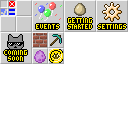
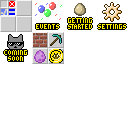
More convenience and polish

Changed region(s): [[0.25, 0.0, 1.0, 0.25], [0.0, 0.25, 0.25, 0.5]]

diff --git a/src/main/java/com/winthier/minimap/TerrainRenderer.java b/src/main/java/com/winthier/minimap/TerrainRenderer.java
@@ -272,6 +272,12 @@ public final class TerrainRenderer extends MapRenderer {
     }
 
     void syncUpdateMenu(Player player, Session session) {
+        if (player.getInventory().getItemInMainHand().getType() != Material.MAP ||
+            player.getInventory().getItemInMainHand().getDurability() != plugin.getMapId()) {
+            session.setMode(Session.Mode.MAP);
+            session.remove(Storage.class); // Force update
+            return;
+        }
         if (!player.isOnline()) return;
         MapCursorCollection mapCursors = new MapCursorCollection();
         // Draw
@@ -357,12 +363,15 @@ public final class TerrainRenderer extends MapRenderer {
                 session.setMenuLocation("main");
                 drawDarkenedMap(session, mapCache);
                 java.util.Random rnd = new java.util.Random(System.currentTimeMillis());
-                TileSet.getInstance().paste(TileSet.Tile.BUTTON_EVENTS, mapCache, 8, 8);
-                session.getMenuRects().add(new Session.Rect(8, 8, 32, 32, "events"));
-                TileSet.getInstance().paste(TileSet.Tile.BUTTON_GETTING_STARTED, mapCache, 48, 8);
-                session.getMenuRects().add(new Session.Rect(48, 8, 32, 32, "getting_started"));
-                TileSet.getInstance().paste(TileSet.Tile.BUTTON_SETTINGS, mapCache, 88, 8);
-                session.getMenuRects().add(new Session.Rect(88, 8, 32, 32, "settings"));
+                int ti = 0;
+                TileSet.getInstance().paste(TileSet.Tile.BUTTON_GETTING_STARTED, mapCache, 8 + (ti % 3) * 40, 8 + (ti / 3) * 40);
+                session.getMenuRects().add(new Session.Rect(8 + (ti % 3) * 40, 8 + (ti / 3) * 40, 32, 32, "getting_started"));
+                ti += 1;
+                TileSet.getInstance().paste(TileSet.Tile.BUTTON_EVENTS, mapCache, 8 + (ti % 3) * 40, 8 + (ti / 3) * 40);
+                session.getMenuRects().add(new Session.Rect(8 + (ti % 3) * 40, 8 + (ti / 3) * 40, 32, 32, "events"));
+                ti += 1;
+                TileSet.getInstance().paste(TileSet.Tile.BUTTON_SETTINGS, mapCache, 8 + (ti % 3) * 40, 8 + (ti / 3) * 40);
+                session.getMenuRects().add(new Session.Rect(8 + (ti % 3) * 40, 8 + (ti / 3) * 40, 32, 32, "settings"));
                 TileSet.getInstance().paste(TileSet.Tile.BUTTON_COMING_SOON, mapCache, 8, 48);
                 TileSet.getInstance().paste(TileSet.Tile.BUTTON_COMING_SOON, mapCache, 48, 48);
                 TileSet.getInstance().paste(TileSet.Tile.BUTTON_COMING_SOON, mapCache, 88, 48);

diff --git a/src/main/java/com/winthier/minimap/MiniMapPlugin.java b/src/main/java/com/winthier/minimap/MiniMapPlugin.java
@@ -296,18 +296,36 @@ public final class MiniMapPlugin extends JavaPlugin implements Listener {
     void storeSettings(Player player) {
         final UUID uuid = player.getUniqueId();
         List settingList = new ArrayList<>();
-        Map map = new HashMap<>();
-        map.put("DisplayName", "Invert Mouse");
-        map.put("Type", "Boolean");
-        map.put("Value", getUserSettings(uuid).getBoolean("InvertMouseY"));
-        map.put("Priority", 10);
-        Runnable onUpdate = () -> {
-            boolean v = map.get("Value") == Boolean.TRUE;
-            getUserSettings(uuid).set("InvertMouseY", v);
-            saveUserSettings();
-        };
-        map.put("OnUpdate", onUpdate);
-        settingList.add(map);
+        // Invert Mouse
+        {
+            Map<String, Object> map = new HashMap<>();
+            map.put("DisplayName", "Invert Mouse");
+            map.put("Type", "Boolean");
+            map.put("Value", getUserSettings(uuid).getBoolean("InvertMouseY"));
+            map.put("Priority", 10);
+            Runnable onUpdate = () -> {
+                boolean v = map.get("Value") == Boolean.TRUE;
+                getUserSettings(uuid).set("InvertMouseY", v);
+                saveUserSettings();
+            };
+            map.put("OnUpdate", onUpdate);
+            settingList.add(map);
+        }
+        // Fill Off-Hand
+        {
+            Map<String, Object> map = new HashMap<>();
+            map.put("DisplayName", "Fill off-hand in menu");
+            map.put("Type", "Boolean");
+            map.put("Value", getUserSettings(uuid).getBoolean("FillOffHand", true));
+            map.put("Priority", 9);
+            Runnable onUpdate = () -> {
+                boolean v = map.get("Value") == Boolean.TRUE;
+                getUserSettings(uuid).set("FillOffHand", v);
+                saveUserSettings();
+            };
+            map.put("OnUpdate", onUpdate);
+            settingList.add(map);
+        }
         player.setMetadata("MiniMapSettings", new FixedMetadataValue(this, settingList));
     }
 }

diff --git a/src/main/java/com/winthier/minimap/MiniMapItem.java b/src/main/java/com/winthier/minimap/MiniMapItem.java
@@ -62,6 +62,19 @@ public class MiniMapItem implements CustomItem, UncraftableItem, UpdatableItem {
                 session.setMenuNeedsUpdate(true);
                 session.setMouseX(64f);
                 session.setMouseY(64f);
+                if (player.getInventory().getItemInOffHand().getType() == Material.AIR
+                    && plugin.getUserSettings(player.getUniqueId()).getBoolean("FillOffHand", true)) {
+                    for (int i = 35; i >= 0; i -= 1) {
+                        if (i != player.getInventory().getHeldItemSlot()) {
+                            ItemStack item = player.getInventory().getItem(i);
+                            if (item != null && item.getType() != Material.AIR) {
+                                player.getInventory().setItem(i, null);
+                                player.getInventory().setItemInOffHand(item);
+                                break;
+                            }
+                        }
+                    }
+                }
             } else if (session.getMode() == Session.Mode.MENU) {
                 player.playSound(player.getEyeLocation(), Sound.UI_TOAST_OUT, 2.0f, 1.0f);
                 if ("main".equals(session.getMenuLocation())) {

diff --git a/src/main/java/com/winthier/minimap/TileSet.java b/src/main/java/com/winthier/minimap/TileSet.java
@@ -62,6 +62,7 @@ final class TileSet {
         for (int y = 0; y < tdy; y += 1) {
             for (int x = 0; x < tdx; x += 1) {
                 int pixel = (int)pixels[tx + x + (ty + y) * width];
+                if (pixel == 0) continue;
                 cache.setPixel(sx + x, sy + y, pixel);
             }
         }
@@ -71,6 +72,7 @@ final class TileSet {
         for (int y = 0; y < tile.dy; y += 1) {
             for (int x = 0; x < tile.dx; x += 1) {
                 int pixel = (int)pixels[tile.x + x + (tile.y + y) * width];
+                if (pixel == 0) continue;
                 cache.setPixel(sx + x, sy + y, pixel);
             }
         }
